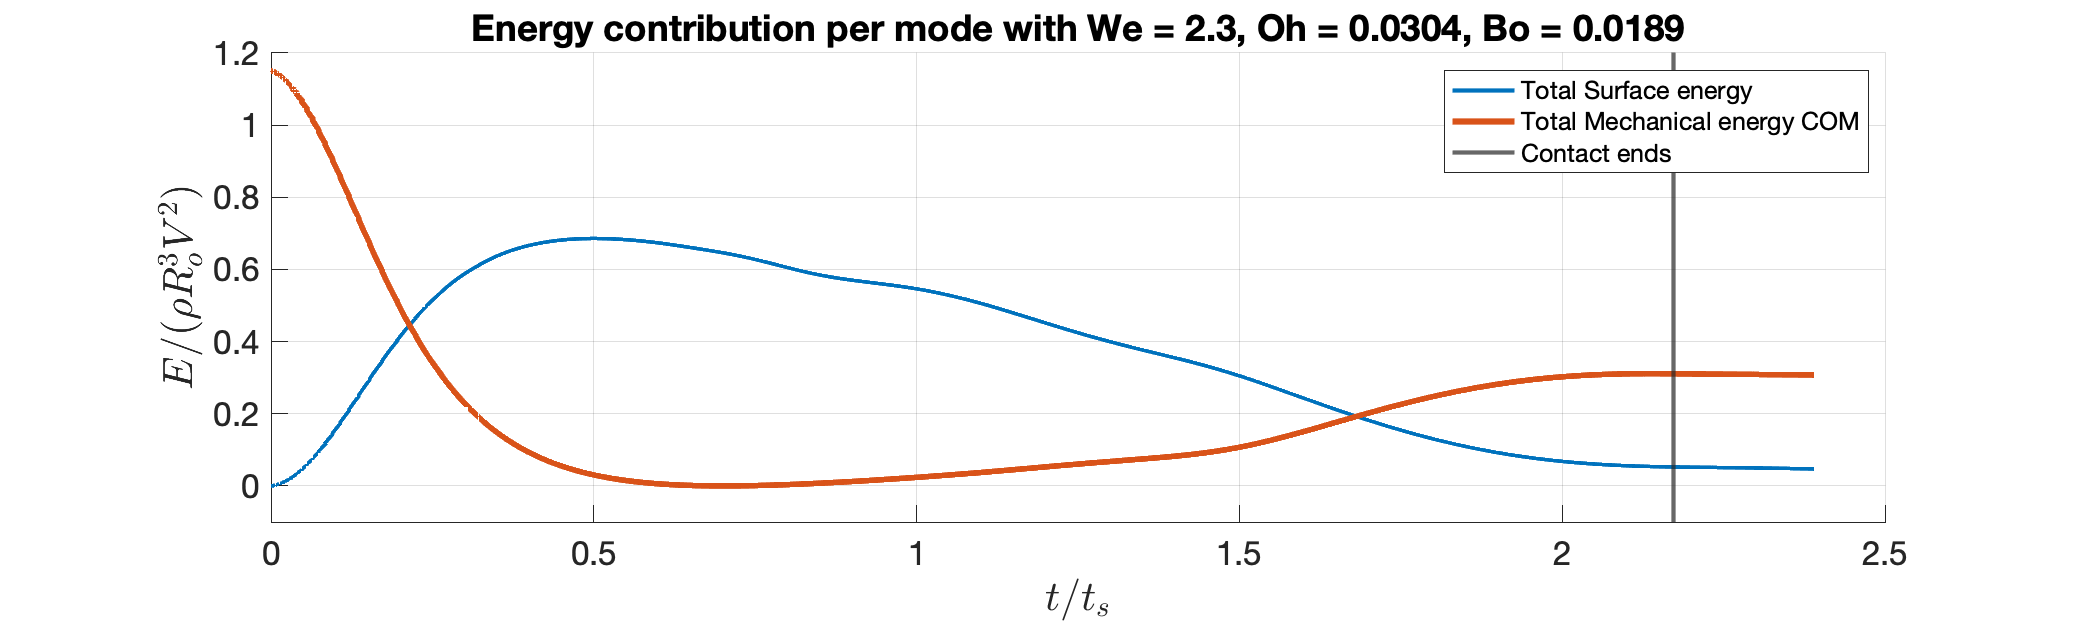
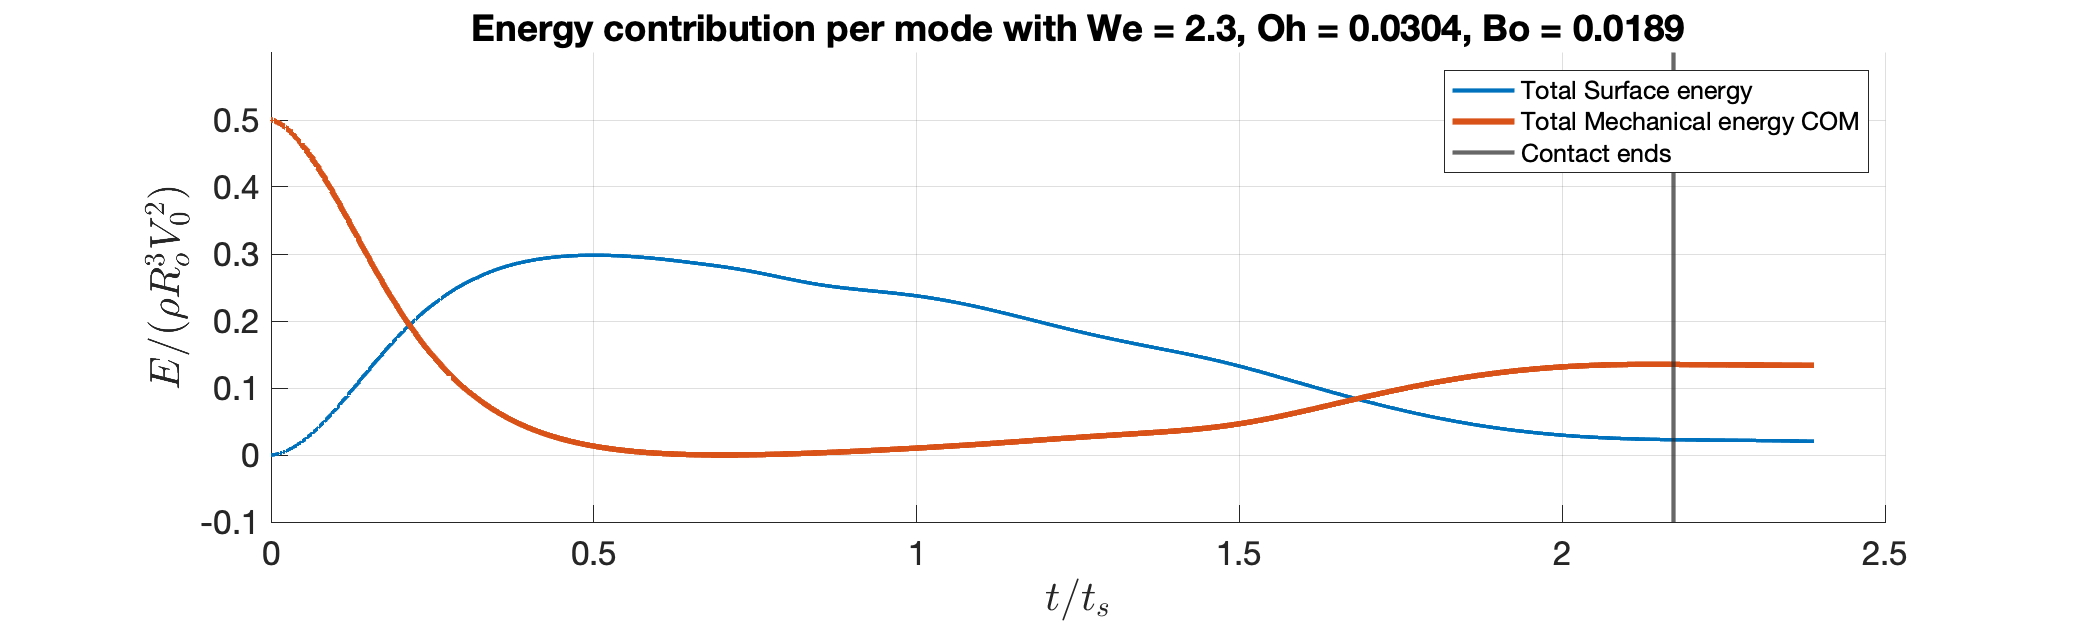
changed velocity scale to macroscale

diff --git a/matlab/1_code/energy_plotter.m b/matlab/1_code/energy_plotter.m
@@ -140,16 +140,17 @@ function energy_plotter(varargin)
         C * Yl .* deformation_amplitudes(idxs, :).^2;
     
     mechanical_energy = (rhoS * Ro^3 *(COM - 0.02*Ro + 1/2 * COM_velocities.^2))/(energy_unit);
+    factor = (velocity_unit/default_physical.initial_velocity)^2;
     A = (velocity_unit.^2/default_physical.initial_velocity.^2)/(2*pi/3);
-    plot(times, A*sum(deformation_energies(idxs, :), 1), 'LineWidth',2);
-    plot(times, mechanical_energy, 'LineWidth', 3);
+    plot(times, factor*A*sum(deformation_energies(idxs, :), 1), 'LineWidth',2);
+    plot(times, factor*mechanical_energy, 'LineWidth', 3);
     xline(times(cidx), 'LineWidth', 2);
     grid on;
     % Only show a subset of 
     set(gca, 'FontSize', 16);
     legend(["Total Surface energy", "Total Mechanical energy COM", "Contact ends"], 'FontSize', 12);
     xlabel('$ t/t_s $', 'Interpreter','Latex', 'FontSize', 20);
-    ylabel('$ E/(\rho R_o^3 V^2) $', 'Interpreter','Latex', 'FontSize', 20);
+    ylabel('$ E/(\rho R_o^3 V_0^2) $', 'Interpreter','Latex', 'FontSize', 20);
    
     title(sprintf("Energy contribution per mode with We = %.3g, Oh = %.3g, Bo = %.3g", Westar, Oh, Bo));
     yl = get(gca, 'YLim'); yl = [-.1, max(abs(yl))];
